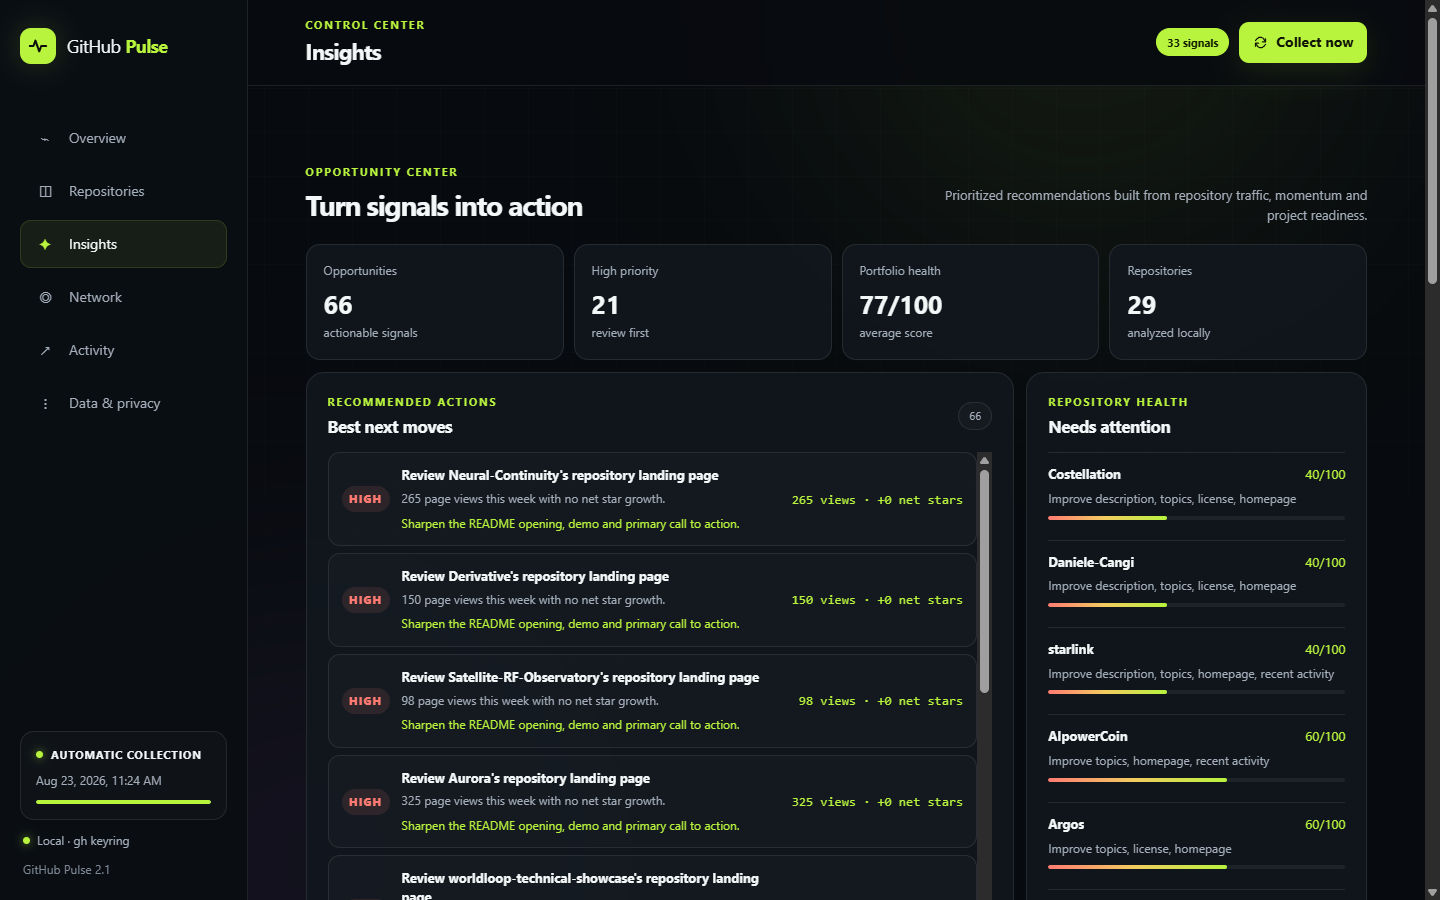
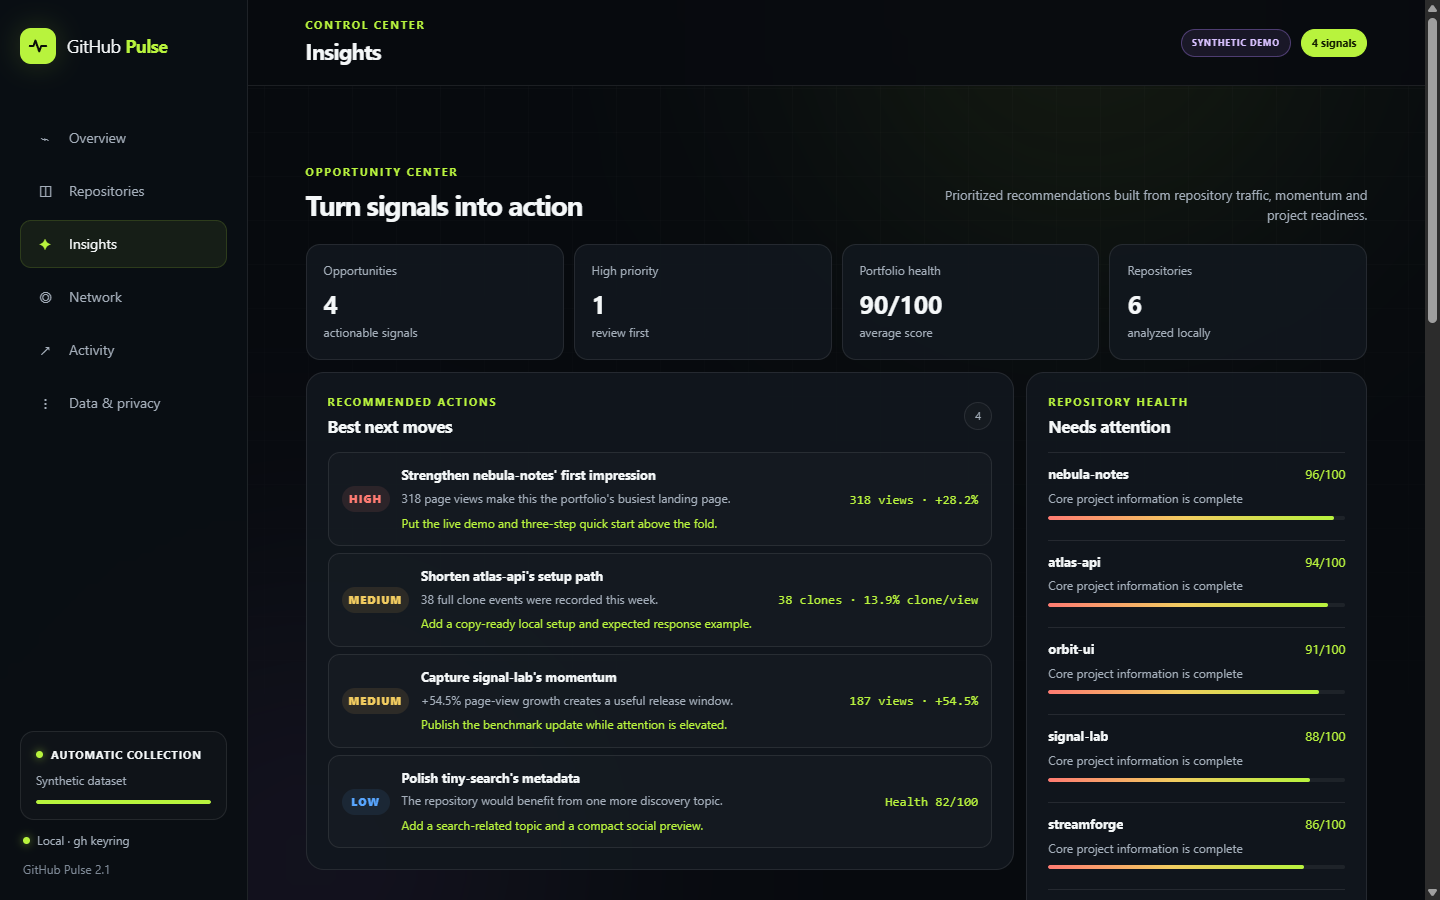
docs: replace personal screenshots with demo data

diff --git a/README.md b/README.md
@@ -16,6 +16,9 @@ Turn repository traffic, stars, clones, activity and community changes into sign
 
 ![GitHub Pulse overview](docs/screenshots/overview.png)
 
+> The screenshots use GitHub Pulse's built-in synthetic demo profile. They do
+> not contain data from a real GitHub account.
+
 GitHub Pulse is a self-hosted control center for the account currently active in
 [GitHub CLI](https://cli.github.com/). It runs on your computer, reads GitHub
 through the authenticated <code>gh</code> session and stores historical data in
@@ -119,6 +122,19 @@ On Windows you can also double-click <code>start.cmd</code> or run:
 
 GitHub Pulse opens at [http://127.0.0.1:8765](http://127.0.0.1:8765). Press
 <code>Ctrl+C</code> in the terminal to stop it.
+
+### Synthetic demo
+
+To explore or capture the interface without displaying the authenticated
+account, open:
+
+~~~text
+http://127.0.0.1:8765/?demo=1#overview
+~~~
+
+Demo mode uses a deterministic fictional profile, repositories and metrics. It
+does not call the account data endpoints, and collection and exports are
+disabled in the interface.
 
 ## How collection works
 
